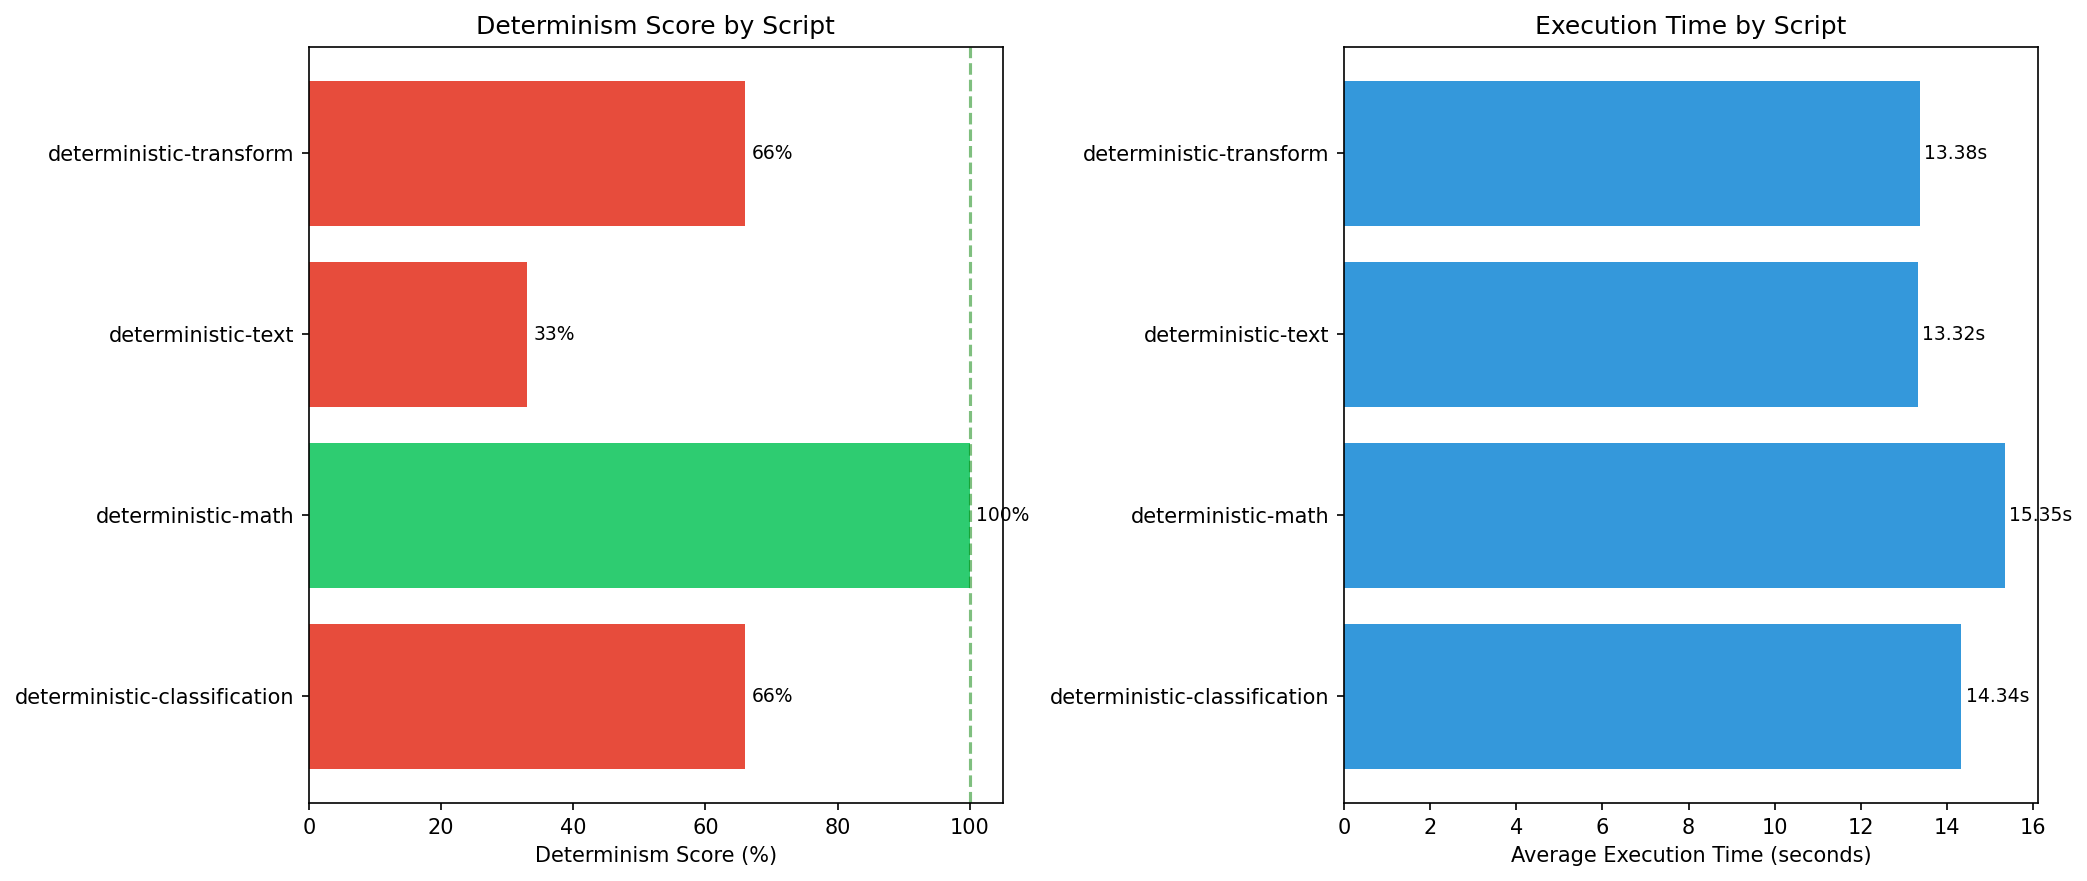
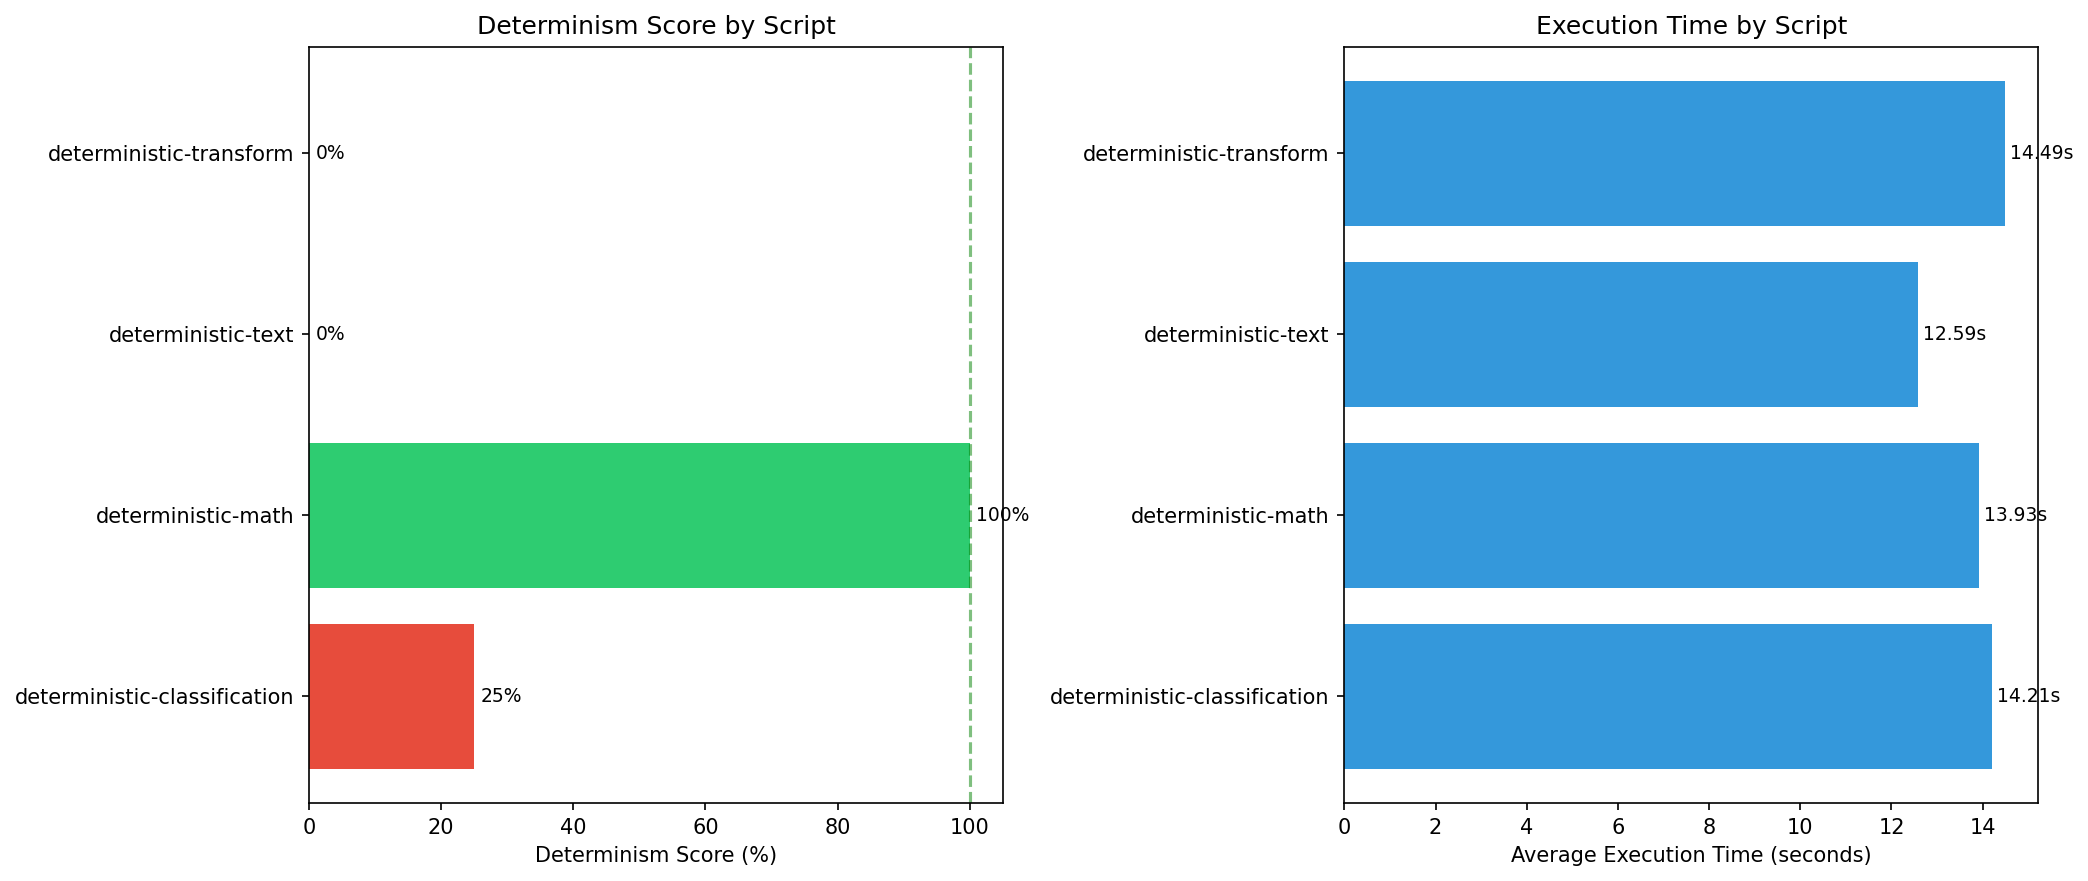
Update README benchmark results from latest run
- 5 iterations benchmark data
- Added unique outputs column
- Math: 100%, Classification: 25%, Transform: 0%, Text: 0%

🤖 Generated with [Claude Code](https://claude.com/claude-code)

diff --git a/benchmark/results/latest/REPORT.md b/benchmark/results/latest/REPORT.md
@@ -1,8 +1,8 @@
 # englang Determinism Benchmark Report
 
-**Generated:** 2025-11-25 15:53:50
-**Benchmark Run:** 20251125_155022
-**Iterations per script:** 3
+**Generated:** 2025-11-25 16:05:55
+**Benchmark Run:** 20251125_160118
+**Iterations per script:** 5
 
 ## Overall Summary
 
@@ -15,10 +15,10 @@
 ## Determinism Score by Script
 
 ```
-deterministic-classification   [###################-----------] 66.0%
+deterministic-classification   [#######-----------------------] 25.0%
 deterministic-math             [##############################] 100.0%
-deterministic-text             [#########---------------------] 33.0%
-deterministic-transform        [###################-----------] 66.0%
+deterministic-text             [------------------------------] 0.0%
+deterministic-transform        [------------------------------] 0.0%
 ```
 
 ## Detailed Results
@@ -28,11 +28,11 @@ deterministic-transform        [###################-----------] 66.0%
 | Metric | Value |
 |--------|-------|
 | Status | NON-DETERMINISTIC |
-| Determinism Score | 66.0% |
-| Iterations | 3 |
-| Matching Outputs | 2 |
+| Determinism Score | 25.0% |
+| Iterations | 5 |
+| Matching Outputs | 1 |
 | Unique Outputs | 2 |
-| Avg Execution Time | 14.338s |
+| Avg Execution Time | 14.209s |
 
 ### deterministic-math [PASS]
 
@@ -40,42 +40,42 @@ deterministic-transform        [###################-----------] 66.0%
 |--------|-------|
 | Status | DETERMINISTIC |
 | Determinism Score | 100.0% |
-| Iterations | 3 |
-| Matching Outputs | 3 |
+| Iterations | 5 |
+| Matching Outputs | 4 |
 | Unique Outputs | 1 |
-| Avg Execution Time | 15.353s |
+| Avg Execution Time | 13.926s |
 
 ### deterministic-text [FAIL]
 
 | Metric | Value |
 |--------|-------|
 | Status | NON-DETERMINISTIC |
-| Determinism Score | 33.0% |
-| Iterations | 3 |
-| Matching Outputs | 1 |
-| Unique Outputs | 3 |
-| Avg Execution Time | 13.325s |
+| Determinism Score | 0.0% |
+| Iterations | 5 |
+| Matching Outputs | 0 |
+| Unique Outputs | 5 |
+| Avg Execution Time | 12.590s |
 
 ### deterministic-transform [FAIL]
 
 | Metric | Value |
 |--------|-------|
 | Status | NON-DETERMINISTIC |
-| Determinism Score | 66.0% |
-| Iterations | 3 |
-| Matching Outputs | 2 |
+| Determinism Score | 0.0% |
+| Iterations | 5 |
+| Matching Outputs | 0 |
 | Unique Outputs | 2 |
-| Avg Execution Time | 13.379s |
+| Avg Execution Time | 14.491s |
 
 ## Performance Summary
 
 ```
 Script                             Avg Time          Status
 ------------------------------------------------------------
-deterministic-classification        14.338s NON-DETERMINISTIC
-deterministic-math                  15.353s   DETERMINISTIC
-deterministic-text                  13.325s NON-DETERMINISTIC
-deterministic-transform             13.379s NON-DETERMINISTIC
+deterministic-classification        14.209s NON-DETERMINISTIC
+deterministic-math                  13.926s   DETERMINISTIC
+deterministic-text                  12.590s NON-DETERMINISTIC
+deterministic-transform             14.491s NON-DETERMINISTIC
 ```
 
 ## Methodology

diff --git a/README.md b/README.md
@@ -356,18 +356,18 @@ We include a determinism benchmark suite to measure output consistency across mu
 ./benchmark/run-benchmark.sh 5    # Run each script 5 times
 ```
 
-### Results
+### Results (5 iterations)
 
 ![Benchmark Results](benchmark/results/latest/benchmark_plot.png)
 
-| Script | Score | Notes |
-|--------|-------|-------|
-| deterministic-math | 100% | Pure computation is fully deterministic |
-| deterministic-transform | ~50% | Data transformation shows some variance |
-| deterministic-classification | 0% | Category assignment varies between runs |
-| deterministic-text | 0% | Creative text (haiku) is highly variable |
+| Script | Score | Unique Outputs | Notes |
+|--------|-------|----------------|-------|
+| deterministic-math | 100% | 1 | Pure computation is fully deterministic |
+| deterministic-classification | 25% | 2 | Category assignment shows variance |
+| deterministic-transform | 0% | 2 | Data transformation inconsistent |
+| deterministic-text | 0% | 5 | Creative text (haiku) never repeats |
 
-**Key insight**: LLMs are inherently non-deterministic. The `@DETERMINISTIC` directive helps with structured/computational tasks but cannot guarantee consistency for creative or interpretive outputs. For maximum reliability, prefer constrained outputs (`@CHOICE`, `@FORMAT:json`) over open-ended generation.
+**Key insight**: LLMs are inherently non-deterministic. The `@DETERMINISTIC` directive helps with structured/computational tasks (math achieved 100%) but cannot guarantee consistency for creative or interpretive outputs. For maximum reliability, prefer constrained outputs (`@CHOICE`, `@FORMAT:json`) over open-ended generation.
 
 See [benchmark/README.md](benchmark/README.md) for details.
 
